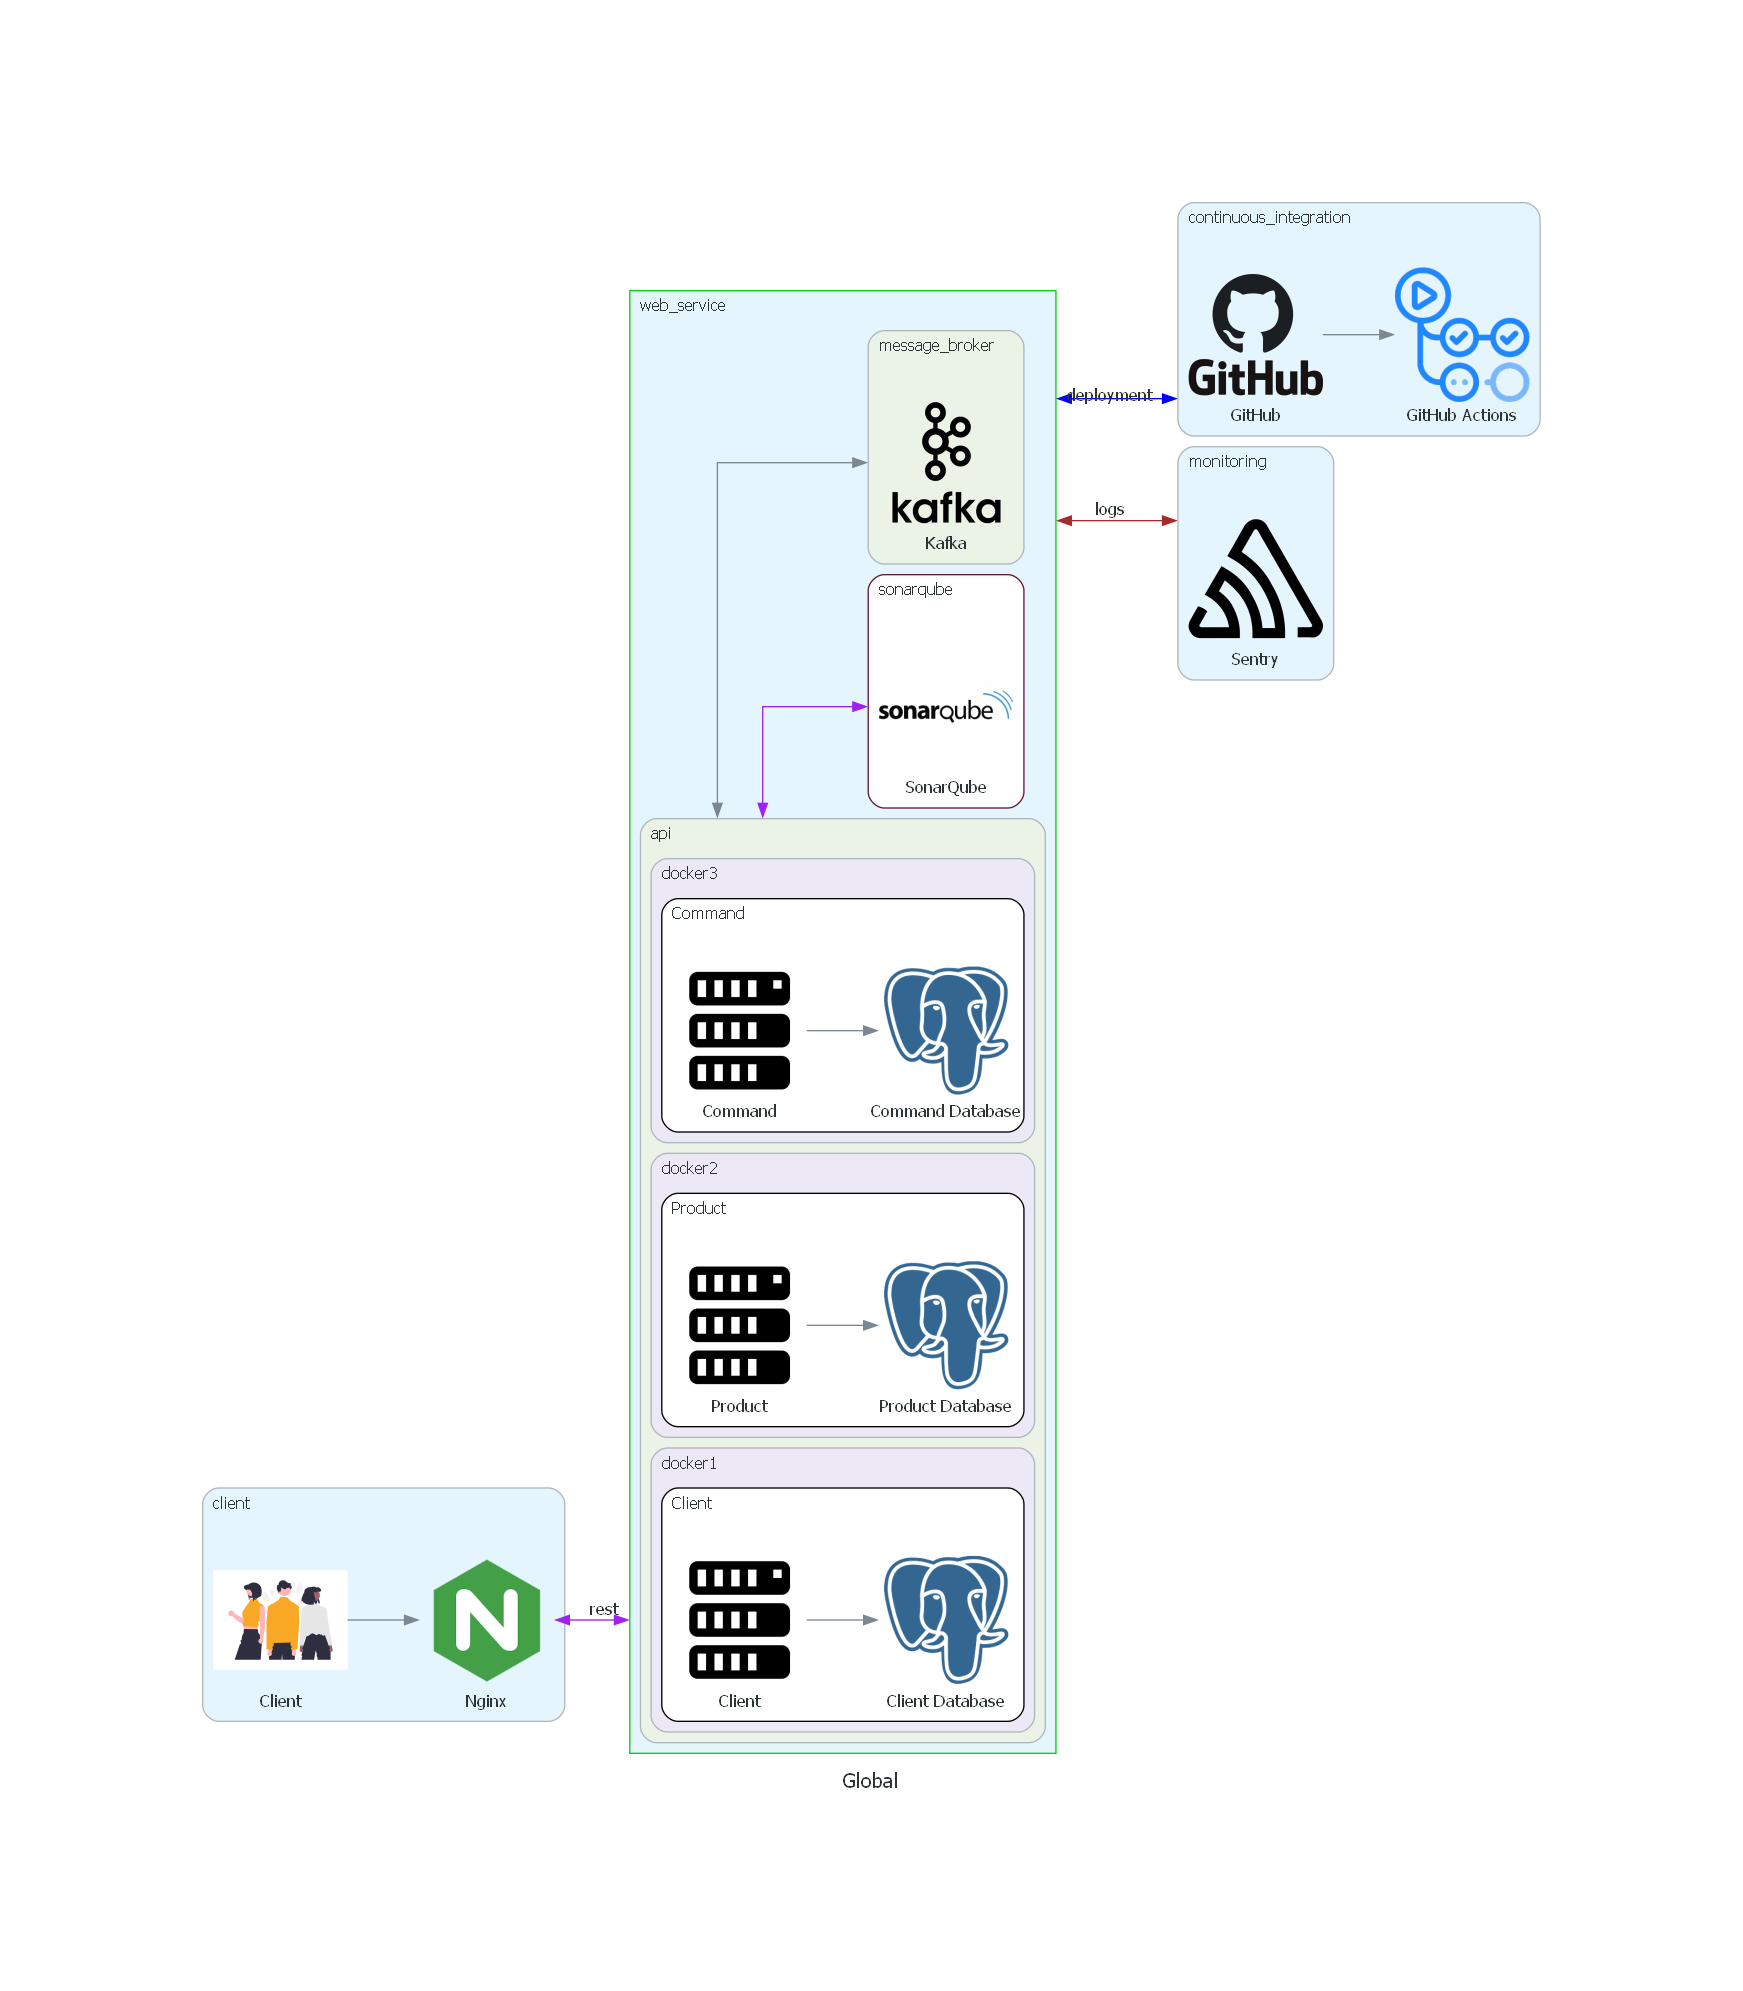
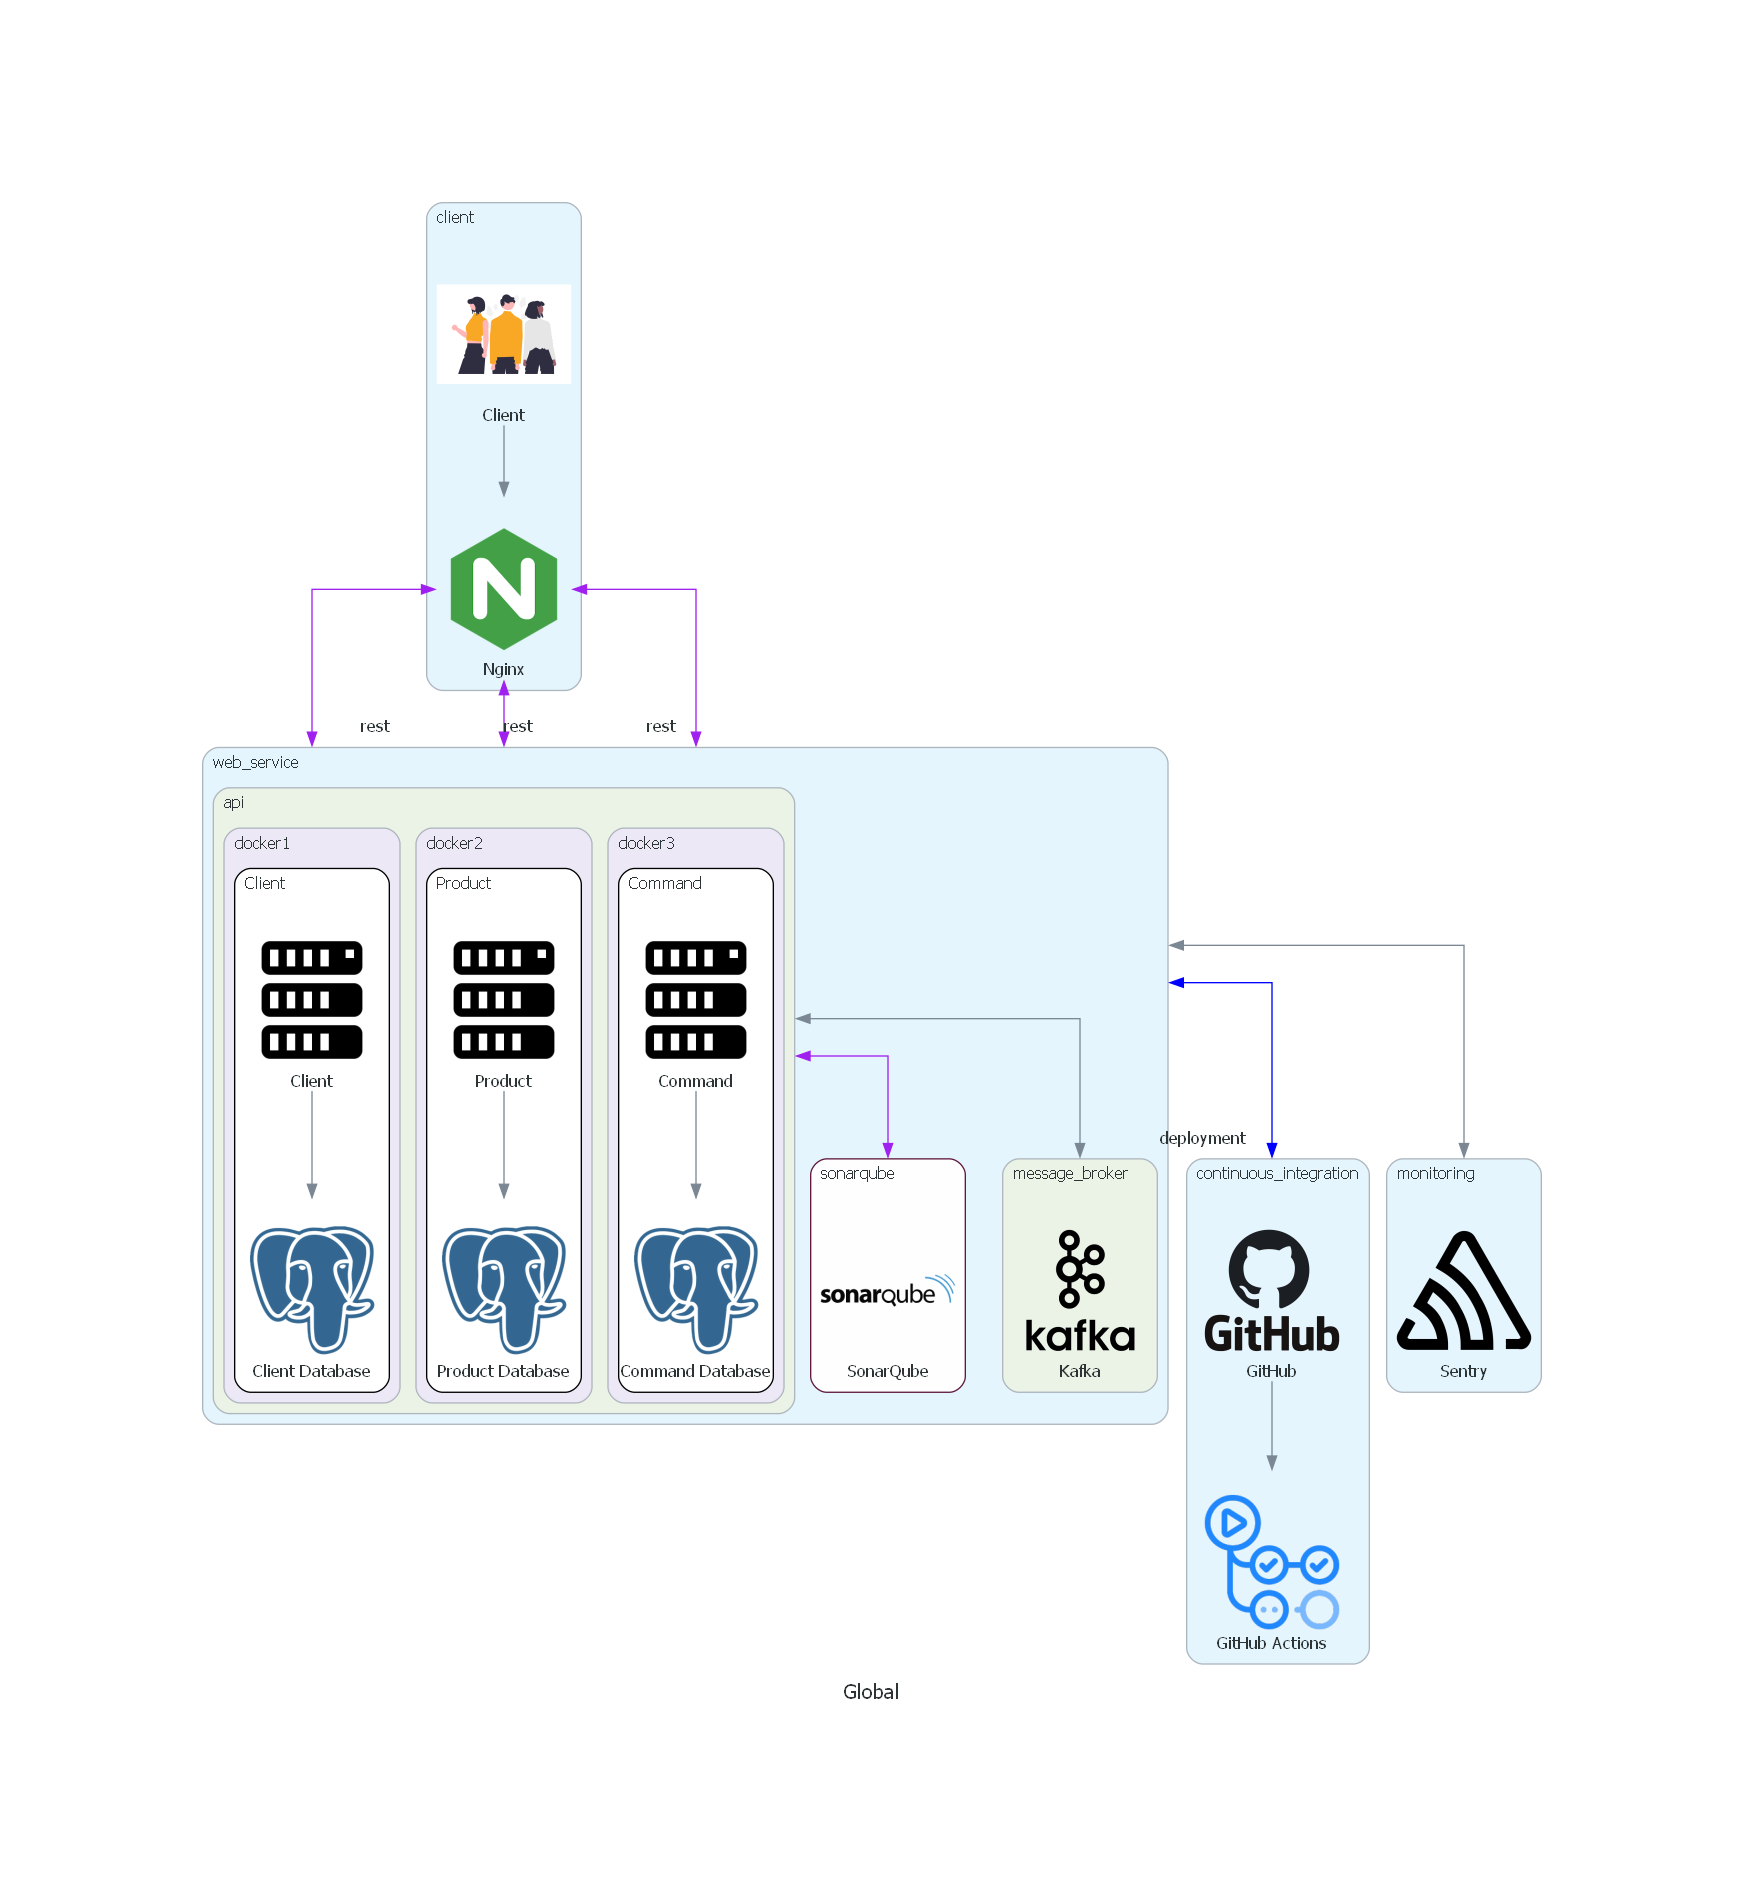
chantier mais bon !

Changed region(s): [[0.0929, 0.0931, 0.8985, 0.9001]]

diff --git a/diagram/diagram.py b/diagram/diagram.py
@@ -5,7 +5,6 @@ from diagrams.onprem.compute import Server
 from diagrams.onprem.database import PostgreSQL
 from diagrams.onprem.network import Nginx
 
-from diagrams.azure.network import Subnets
 # ----------------------------------------
 # Global User Diagram : User <->  3 APIs <-> 1 Broker Message Queue
 # ----------------------------------------
@@ -13,34 +12,16 @@ from diagrams.azure.network import Subnets
 graph_attr = {
     "layout":"dot",
     "compound":"true",
+    "center":"true",
     }
 
-class Subnet(Cluster):
-    # fmt: off
-    _default_graph_attrs = {
-        "shape": "box",
-        "style": "",
-        "labeljust": "l",
-        "pencolor": "#00D110",
-        "fontname": "sans-serif",
-        "fontsize": "12",
-    }
-    # fmt: on
-    _icon = Subnets
-
-
-with Diagram("Global", show=False, filename="output/global_user_diagram", graph_attr=graph_attr) as diagram:
-    with Cluster(label="client"):
-        
-        nginx = Nginx("Nginx")
-        client = Custom("Client", CUSTOM_IMAGE_PATH["user"])
-
+with Diagram("Global",direction='TB', show=False, filename=f"{OUTPUT_FOLDER}/global_user_diagram", graph_attr=graph_attr) as diagram:
     with Cluster("continuous_integration"):
         github = Custom("GitHub", CUSTOM_IMAGE_PATH["github"])
         github_actions = Custom("GitHub Actions", CUSTOM_IMAGE_PATH["github_actions"])
         
     
-    with Subnet("web_service"):    
+    with Cluster("web_service"):    
         with Cluster("api"):
             with Cluster("docker1"):
                 with Cluster("Client", graph_attr={"pencolor": "#000", "bgcolor": "#fff"}):
@@ -65,164 +46,21 @@ with Diagram("Global", show=False, filename="output/global_user_diagram", graph_
         with Cluster("message_broker"):
             kafka = Custom("Kafka", CUSTOM_IMAGE_PATH["kafka"])
         
-            client >> nginx << Edge(label="rest", color="purple",ltail="cluster_user", lhead="cluster_web_service") >> service_client
-            service_command << Edge(color="purple",ltail="cluster_api", lhead="cluster_sonarqube") >> sonarqube        
-        
+
     with Cluster("monitoring"):    
         sentry = Custom("Sentry", CUSTOM_IMAGE_PATH["sentry"])
         
+    with Cluster(label="client"):
+        client = Custom("Client", CUSTOM_IMAGE_PATH["user"])
+        nginx = Nginx("Nginx")
 
-    service_command << Edge(ltail="cluster_api", lhead="cluster_message_broker") >> kafka << Edge(label="logs", color="brown",ltail="cluster_web_service", lhead="cluster_monitoring") >> sentry
-    kafka << Edge(label="deployment", color="blue",ltail="cluster_web_service", lhead="cluster_continuous_integration") >>  github >> github_actions
+
+
+    client >> nginx << Edge(label="rest", color="purple",ltail="cluster_user", lhead="cluster_web_service") >> [service_command, service_product, service_client]
+    service_command << Edge(color="purple",ltail="cluster_api", lhead="cluster_sonarqube") >> sonarqube            
+    service_command << Edge(ltail="cluster_api", lhead="cluster_message_broker") >> kafka
+    service_command << Edge(ltail="cluster_web_service", lhead="cluster_monitoring") >> sentry
+    service_command << Edge(label="deployment", color="blue",ltail="cluster_web_service", lhead="cluster_continuous_integration") >>  github >> github_actions
     
     
 diagram
-
-
-# from diagrams import Diagram, Edge, Cluster
-# from diagrams.aws.compute import EC2, ApplicationAutoScaling
-# from diagrams.aws.network import ELB, VPC, PrivateSubnet, PublicSubnet
-# from diagrams.onprem.compute import Server
-# from diagrams.onprem.container import Docker
-
-
-# class Region(Cluster):
-#   _default_graph_attrs = {
-#       "shape": "box",
-#       "style": "dotted",
-#       "labeljust": "l",
-#       "pencolor": "#AEB6BE",
-#       "fontname": "Sans-Serif",
-#       "fontsize": "12",
-#   }
-
-
-# class AvailabilityZone(Cluster):
-#     # fmt: off
-#     _default_graph_attrs = {
-#         "shape": "box",
-#         "style": "dashed",
-#         "labeljust": "l",
-#         "pencolor": "#27a0ff",
-#         "fontname": "sans-serif",
-#         "fontsize": "12",
-#     }
-#     # fmt: on
-
-
-# class VirtualPrivateCloud(Cluster):
-#     # fmt: off
-#     _default_graph_attrs = {
-#         "shape": "box",
-#         "style": "",
-#         "labeljust": "l",
-#         "pencolor": "#00D110",
-#         "fontname": "sans-serif",
-#         "fontsize": "12",
-#     }
-#     # fmt: on
-#     _icon = VPC
-
-
-# class PrivateSubnet(Cluster):
-#     # fmt: off
-#     _default_graph_attrs = {
-#         "shape": "box",
-#         "style": "",
-#         "labeljust": "l",
-#         "pencolor": "#329CFF",
-#         "fontname": "sans-serif",
-#         "fontsize": "12",
-#     }
-#     # fmt: on
-#     _icon = PrivateSubnet
-
-
-# class PublicSubnet(Cluster):
-#     # fmt: off
-#     _default_graph_attrs = {
-#         "shape": "box",
-#         "style": "",
-#         "labeljust": "l",
-#         "pencolor": "#00D110",
-#         "fontname": "sans-serif",
-#         "fontsize": "12",
-#     }
-#     # fmt: on
-#     _icon = PublicSubnet
-
-
-# class SecurityGroup(Cluster):
-#     # fmt: off
-#     _default_graph_attrs = {
-#         "shape": "box",
-#         "style": "dashed",
-#         "labeljust": "l",
-#         "pencolor": "#FF361E",
-#         "fontname": "Sans-Serif",
-#         "fontsize": "12",
-#     }
-#     # fmt: on
-
-
-# class AutoScalling(Cluster):
-#     # fmt: off
-#     _default_graph_attrs = {
-#         "shape": "box",
-#         "style": "dashed",
-#         "labeljust": "l",
-#         "pencolor": "#FF7D1E",
-#         "fontname": "Sans-Serif",
-#         "fontsize": "12",
-#     }
-#     # fmt: on
-#     _icon = ApplicationAutoScaling
-
-
-# class EC2Contents(Cluster):
-#     # fmt: off
-#     _default_graph_attrs = {
-#         "shape": "box",
-#         "style": "",
-#         "labeljust": "l",
-#         "pencolor": "#FFB432",
-#         "fontname": "Sans-Serif",
-#         "fontsize": "12",
-#     }
-#     # fmt: on
-#     _icon = EC2
-
-
-# class ServerContents(Cluster):
-#     # fmt: off
-#     _default_graph_attrs = {
-#         "shape": "box",
-#         "style": "rounded,dotted",
-#         "labeljust": "l",
-#         "pencolor": "#A0A0A0",
-#         "fontname": "Sans-Serif",
-#         "fontsize": "12",
-#     }
-#     # fmt: on
-#     _icon = Server
-
-
-# with Diagram(name="", direction="TB", filename="aws"):
-#     with Cluster("AWS", graph_attr={"fontsize": "15"}): # overwrite attributes for the default cluster
-#         with Region("eu-west-1", graph_attr={"pencolor": "#60193C", "bgcolor": "#E587B5"}): # one cluster defined but with overwritten attributes
-#             with AvailabilityZone("eu-west-1a"):
-#                 with VirtualPrivateCloud(""):
-#                     with PrivateSubnet("Private"):
-#                         with SecurityGroup("web sg"):
-#                             with AutoScalling(""):
-#                                 with EC2Contents("A"):
-#                                     d1 = Docker("Container")
-#                                 with ServerContents("A1"):
-#                                     d2 = Docker("Container")
-
-#                     with PublicSubnet("Public"):
-#                         with SecurityGroup("elb sg"):
-#                             lb = ELB()
-
-#     lb >> Edge(forward=True, reverse=True) >> d1
-#     lb >> Edge(forward=True, reverse=True) >> d2
